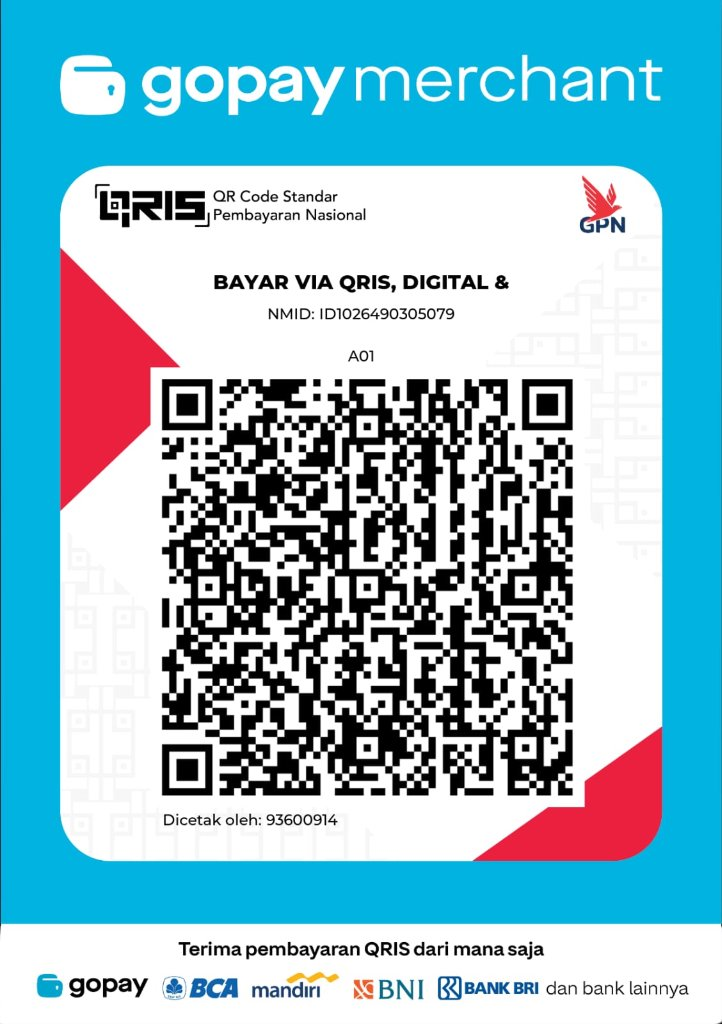
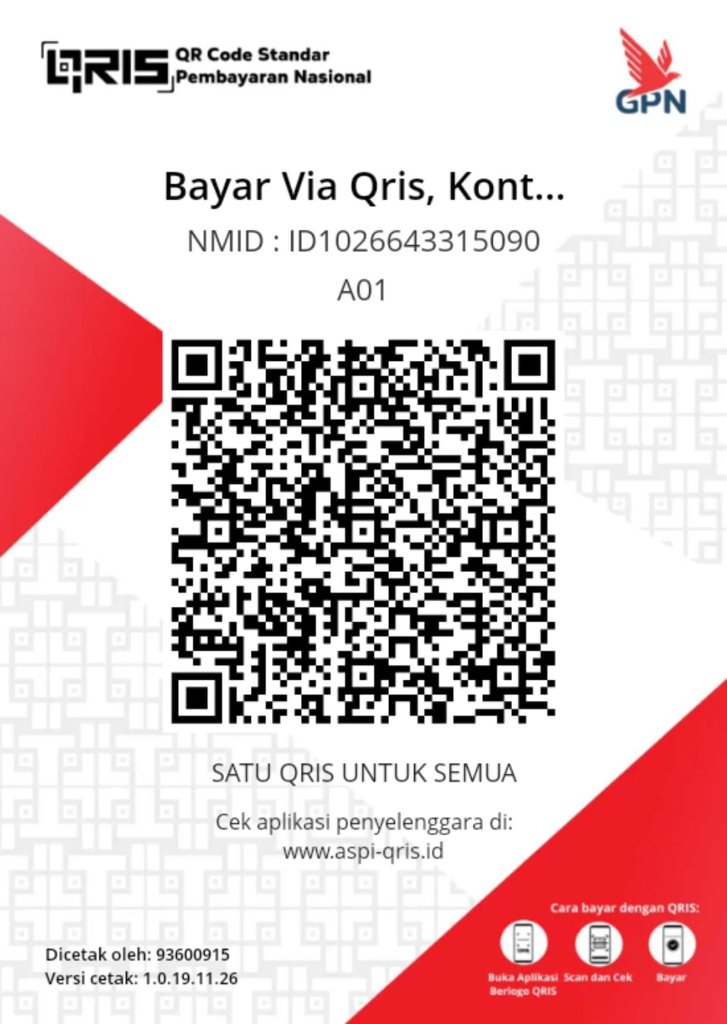
feat(qris): update master static QRIS to DANA Bayar Via Qris Konter with valid EMVCo CRC16 and dynamic Tag 54 injection

diff --git a/src/utils/qrisUtils.js b/src/utils/qrisUtils.js
@@ -4,14 +4,14 @@
  */
 
 export const MASTER_QRIS_STATIC =
-    '00020101021126610014COM.GO-JEK.WWW01189360091433186083620210G3186083620303UMI51440014ID.CO.QRIS.WWW0215ID10264903050790303UMI5204899953033605802ID5925BAYAR VIA QRIS, Digital &6006BEKASI61051732062070703A01630454CF';
+    '00020101021126570011ID.DANA.WWW011893600915303714994002090371499400303UMI51440014ID.CO.QRIS.WWW0215ID10266433150900303UMI5204481453033605802ID5922Bayar Via Qris, Konter6006Bekasi6105173206304E9AE';
 
 export const MASTER_MERCHANT_INFO = {
-    name: 'BAYAR VIA QRIS, Digital &',
-    address: 'BEKASI 17320',
-    nmid: 'ID1026490305079',
-    city: 'BEKASI',
-    provider: 'GoPay Merchant',
+    name: 'Bayar Via Qris, Konter',
+    address: 'Bekasi 17320',
+    nmid: 'ID1026643315090',
+    city: 'Bekasi',
+    provider: 'DANA Merchant / ASPI',
 };
 
 /**

diff --git a/src/services/payhookService.js b/src/services/payhookService.js
@@ -26,8 +26,8 @@ export function getPayhookConfig() {
         const saved = localStorage.getItem(PAYHOOK_STORAGE_KEY);
         if (saved) {
             const parsed = JSON.parse(saved);
-            // Auto upgrade if still using legacy chiropractic/bypipx static QRIS
-            if (parsed.rawStaticQris && parsed.rawStaticQris.includes('bypipx')) {
+            // Auto upgrade if still using older static QRIS
+            if (parsed.rawStaticQris !== MASTER_QRIS_STATIC) {
                 const upgraded = {
                     ...parsed,
                     rawStaticQris: MASTER_QRIS_STATIC,
